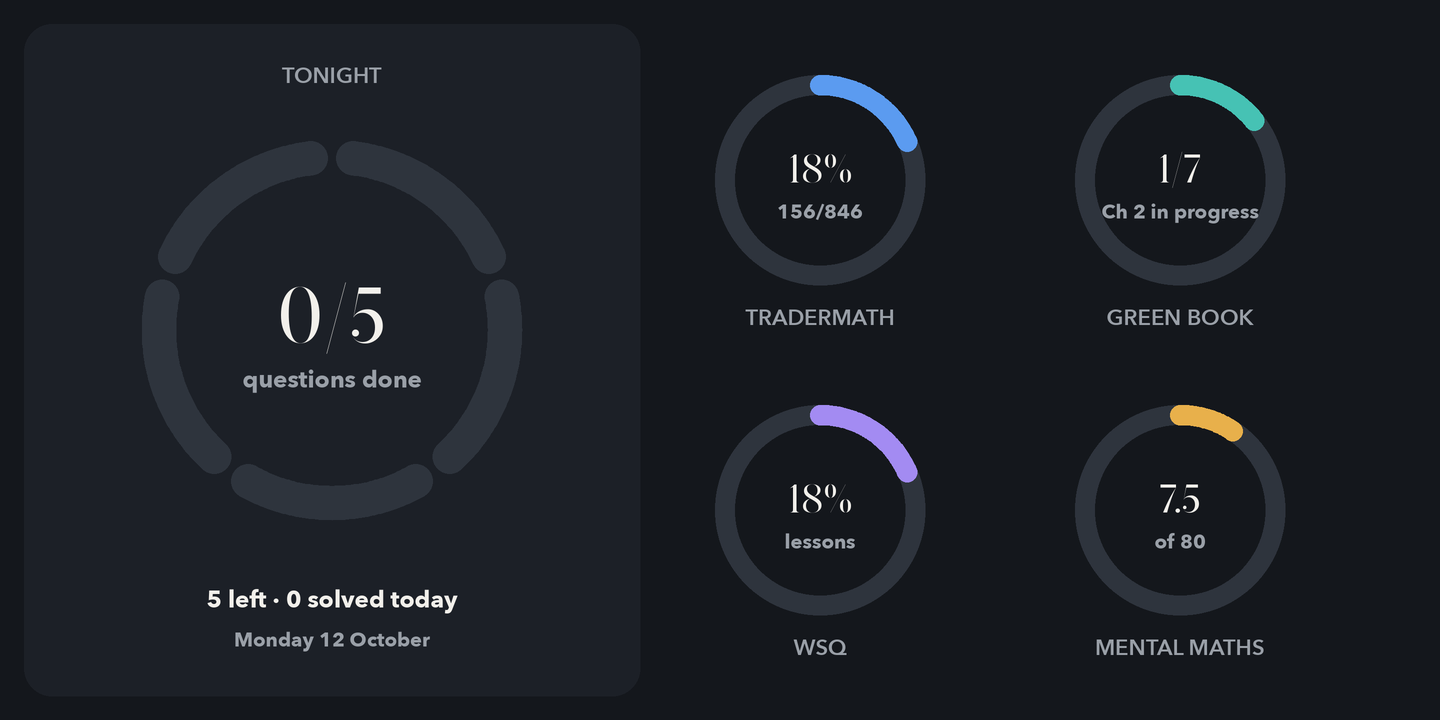
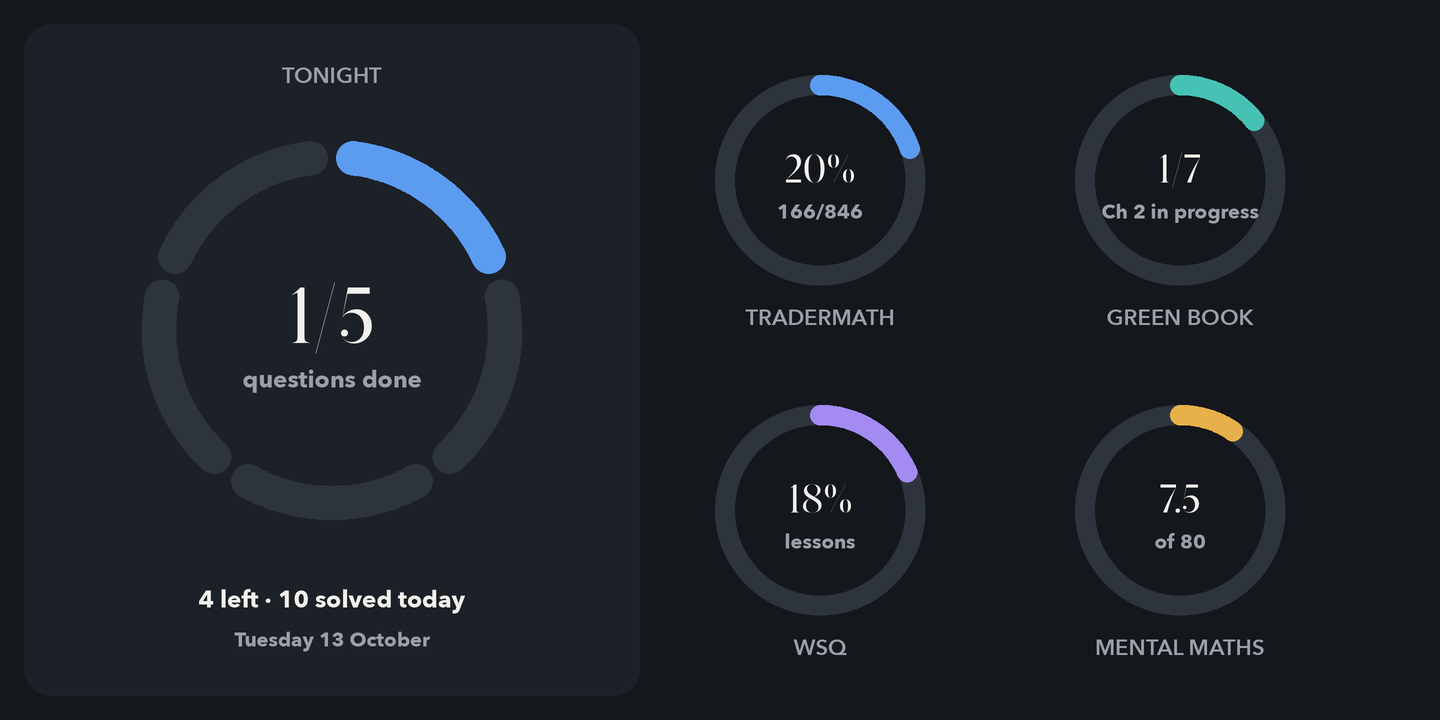
Update 2026-10-13 11:08

diff --git a/index.html b/index.html
@@ -18,10 +18,10 @@ a{color:inherit;text-decoration:none}
 .grid{display:grid;grid-template-columns:1fr 1fr;gap:8px}.grid .btn{margin:0;flex-direction:column;align-items:flex-start;gap:2px}
 footer{color:var(--muted);font-size:12px;text-align:center;margin:20px 0 8px}
 </style></head><body>
-<img class="rings" src="rings.png?v=1791806057" alt="Tonight: 0/5 done · 5 left">
+<img class="rings" src="rings.png?v=1791850112" alt="Tonight: 1/5 done · 4 left">
 <h2>TONIGHT</h2>
-<a class="q" href="https://www.tradermath.org/brainteasers/shaking-hands">
-  <span class="tick">1</span>
+<a class="q done" href="https://www.tradermath.org/brainteasers/shaking-hands">
+  <span class="tick">✓</span>
   <span class="qt"><b>Shaking Hands</b><small>Easy · Ch 4 · Combinatorics and cards</small></span>
 </a><a class="q" href="https://www.tradermath.org/brainteasers/race-of-triples-hht-vs-hth">
   <span class="tick">2</span>
@@ -45,5 +45,5 @@ footer{color:var(--muted);font-size:12px;text-align:center;margin:20px 0 8px}
 <a class="btn" href="fractions.html"><b>Fractions drill</b><small>Fractions → decimals</small></a>
 <a class="btn" href="intent://claude.ai/artifact/D9CUkqTfZe2AeixnnqnZA3#Intent;scheme=https;package=com.anthropic.claude;S.browser_fallback_url=https%3A%2F%2Fclaude.ai%2Fartifact%2FD9CUkqTfZe2AeixnnqnZA3;end"><b>Full dashboard</b><small>in Claude</small></a>
 </div>
-<footer>156/846 solved · 0 today · updated Mon 12 Oct, 10:54 PM</footer>
+<footer>166/846 solved · 10 today · updated Tue 13 Oct, 11:08 AM</footer>
 </body></html>
